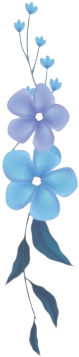
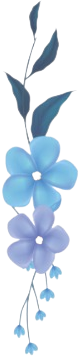
add background bunga

diff --git a/public/css/app.css b/public/css/app.css
@@ -1,1 +1,1 @@
-/*! tailwindcss v3.0.24 | MIT License | https://tailwindcss.com*/*,:after,:before{border:0 solid #e5e7eb;box-sizing:border-box}:after,:before{--tw-content:""}html{-webkit-text-size-adjust:100%;font-family:ui-sans-serif,system-ui,-apple-system,BlinkMacSystemFont,Segoe UI,Roboto,Helvetica Neue,Arial,Noto Sans,sans-serif,Apple Color Emoji,Segoe UI Emoji,Segoe UI Symbol,Noto Color Emoji;line-height:1.5;-moz-tab-size:4;-o-tab-size:4;tab-size:4}body{line-height:inherit;margin:0}hr{border-top-width:1px;color:inherit;height:0}abbr:where([title]){-webkit-text-decoration:underline dotted;text-decoration:underline dotted}h1,h2,h3,h4,h5,h6{font-size:inherit;font-weight:inherit}a{color:inherit;text-decoration:inherit}b,strong{font-weight:bolder}code,kbd,pre,samp{font-family:ui-monospace,SFMono-Regular,Menlo,Monaco,Consolas,Liberation Mono,Courier New,monospace;font-size:1em}small{font-size:80%}sub,sup{font-size:75%;line-height:0;position:relative;vertical-align:baseline}sub{bottom:-.25em}sup{top:-.5em}table{border-collapse:collapse;border-color:inherit;text-indent:0}button,input,optgroup,select,textarea{color:inherit;font-family:inherit;font-size:100%;line-height:inherit;margin:0;padding:0}button,select{text-transform:none}[type=button],[type=reset],[type=submit],button{-webkit-appearance:button;background-color:transparent;background-image:none}:-moz-focusring{outline:auto}:-moz-ui-invalid{box-shadow:none}progress{vertical-align:baseline}::-webkit-inner-spin-button,::-webkit-outer-spin-button{height:auto}[type=search]{-webkit-appearance:textfield;outline-offset:-2px}::-webkit-search-decoration{-webkit-appearance:none}::-webkit-file-upload-button{-webkit-appearance:button;font:inherit}summary{display:list-item}blockquote,dd,dl,figure,h1,h2,h3,h4,h5,h6,hr,p,pre{margin:0}fieldset{margin:0}fieldset,legend{padding:0}menu,ol,ul{list-style:none;margin:0;padding:0}textarea{resize:vertical}input::-moz-placeholder,textarea::-moz-placeholder{color:#9ca3af;opacity:1}input:-ms-input-placeholder,textarea:-ms-input-placeholder{color:#9ca3af;opacity:1}input::placeholder,textarea::placeholder{color:#9ca3af;opacity:1}[role=button],button{cursor:pointer}:disabled{cursor:default}audio,canvas,embed,iframe,img,object,svg,video{display:block;vertical-align:middle}img,video{height:auto;max-width:100%}[hidden]{display:none}*,:after,:before{--tw-translate-x:0;--tw-translate-y:0;--tw-rotate:0;--tw-skew-x:0;--tw-skew-y:0;--tw-scale-x:1;--tw-scale-y:1;--tw-pan-x: ;--tw-pan-y: ;--tw-pinch-zoom: ;--tw-scroll-snap-strictness:proximity;--tw-ordinal: ;--tw-slashed-zero: ;--tw-numeric-figure: ;--tw-numeric-spacing: ;--tw-numeric-fraction: ;--tw-ring-inset: ;--tw-ring-offset-width:0px;--tw-ring-offset-color:#fff;--tw-ring-color:rgba(59,130,246,.5);--tw-ring-offset-shadow:0 0 #0000;--tw-ring-shadow:0 0 #0000;--tw-shadow:0 0 #0000;--tw-shadow-colored:0 0 #0000;--tw-blur: ;--tw-brightness: ;--tw-contrast: ;--tw-grayscale: ;--tw-hue-rotate: ;--tw-invert: ;--tw-saturate: ;--tw-sepia: ;--tw-drop-shadow: ;--tw-backdrop-blur: ;--tw-backdrop-brightness: ;--tw-backdrop-contrast: ;--tw-backdrop-grayscale: ;--tw-backdrop-hue-rotate: ;--tw-backdrop-invert: ;--tw-backdrop-opacity: ;--tw-backdrop-saturate: ;--tw-backdrop-sepia: }.fixed{position:fixed}.absolute{position:absolute}.relative{position:relative}.inset-0{bottom:0;left:0;right:0;top:0}.top-auto{top:auto}.right-4{right:1rem}.bottom-4{bottom:1rem}.left-auto{left:auto}.top-\[\.15rem\]{top:.15rem}.bottom-24{bottom:6rem}.top-\[30\%\]{top:30%}.-top-1{top:-.25rem}.-bottom-1{bottom:-.25rem}.top-1\/2{top:50%}.left-1\/2{left:50%}.top-0{top:0}.right-0{right:0}.z-40{z-index:40}.z-50{z-index:50}.mx-auto{margin-left:auto;margin-right:auto}.my-5{margin-bottom:1.25rem;margin-top:1.25rem}.my-1{margin-bottom:.25rem;margin-top:.25rem}.my-3{margin-bottom:.75rem;margin-top:.75rem}.my-10{margin-bottom:2.5rem;margin-top:2.5rem}.mt-\[\.15rem\]{margin-top:.15rem}.mt-4{margin-top:1rem}.mt-5{margin-top:1.25rem}.mt-16{margin-top:4rem}.mt-10{margin-top:2.5rem}.mt-2{margin-top:.5rem}.mt-1{margin-top:.25rem}.mt-20{margin-top:5rem}.ml-2{margin-left:.5rem}.mt-3{margin-top:.75rem}.ml-1{margin-left:.25rem}.mr-2{margin-right:.5rem}.ml-4{margin-left:1rem}.mt-8{margin-top:2rem}.ml-12{margin-left:3rem}.-mt-px{margin-top:-1px}.block{display:block}.flex{display:flex}.inline-flex{display:inline-flex}.grid{display:grid}.hidden{display:none}.h-10{height:2.5rem}.h-\[95vh\]{height:95vh}.h-full{height:100%}.h-48{height:12rem}.h-8{height:2rem}.h-auto{height:auto}.h-80{height:20rem}.h-16{height:4rem}.h-screen{height:100vh}.h-5{height:1.25rem}.min-h-screen{min-height:100vh}.w-10{width:2.5rem}.w-full{width:100%}.w-11\/12{width:91.666667%}.w-72{width:18rem}.w-80{width:20rem}.w-64{width:16rem}.w-16{width:4rem}.w-auto{width:auto}.w-32{width:8rem}.w-5{width:1.25rem}.w-8{width:2rem}.max-w-6xl{max-width:72rem}@-webkit-keyframes bounce{0%,to{-webkit-animation-timing-function:cubic-bezier(.8,0,1,1);animation-timing-function:cubic-bezier(.8,0,1,1);transform:translateY(-25%)}50%{-webkit-animation-timing-function:cubic-bezier(0,0,.2,1);animation-timing-function:cubic-bezier(0,0,.2,1);transform:none}}@keyframes bounce{0%,to{-webkit-animation-timing-function:cubic-bezier(.8,0,1,1);animation-timing-function:cubic-bezier(.8,0,1,1);transform:translateY(-25%)}50%{-webkit-animation-timing-function:cubic-bezier(0,0,.2,1);animation-timing-function:cubic-bezier(0,0,.2,1);transform:none}}.animate-bounce{-webkit-animation:bounce 1s infinite;animation:bounce 1s infinite}.resize-none{resize:none}.grid-cols-4{grid-template-columns:repeat(4,minmax(0,1fr))}.grid-cols-3{grid-template-columns:repeat(3,minmax(0,1fr))}.grid-cols-1{grid-template-columns:repeat(1,minmax(0,1fr))}.flex-row{flex-direction:row}.flex-col{flex-direction:column}.items-center{align-items:center}.justify-end{justify-content:flex-end}.justify-center{justify-content:center}.justify-between{justify-content:space-between}.gap-4{gap:1rem}.gap-10{gap:2.5rem}.gap-x-4{-moz-column-gap:1rem;column-gap:1rem}.overflow-hidden{overflow:hidden}.overflow-y-auto{overflow-y:auto}.whitespace-nowrap{white-space:nowrap}.rounded-lg{border-radius:.5rem}.rounded-full{border-radius:9999px}.border-2{border-width:2px}.border-0{border-width:0}.border-t{border-top-width:1px}.border-solid{border-style:solid}.border-camel{--tw-border-opacity:1;border-color:rgb(180 155 109/var(--tw-border-opacity))}.border-gray-200{--tw-border-opacity:1;border-color:rgb(229 231 235/var(--tw-border-opacity))}.bg-camel{--tw-bg-opacity:1;background-color:rgb(180 155 109/var(--tw-bg-opacity))}.bg-deep-koamaru{--tw-bg-opacity:1;background-color:rgb(48 62 100/var(--tw-bg-opacity))}.bg-white{--tw-bg-opacity:1;background-color:rgb(255 255 255/var(--tw-bg-opacity))}.bg-rich-black{--tw-bg-opacity:1;background-color:rgb(1 1 27/var(--tw-bg-opacity))}.bg-water{--tw-bg-opacity:1;background-color:rgb(224 241 253/var(--tw-bg-opacity))}.bg-aero{--tw-bg-opacity:1;background-color:rgb(125 191 225/var(--tw-bg-opacity))}.bg-transparent{background-color:transparent}.bg-gray-100{--tw-bg-opacity:1;background-color:rgb(243 244 246/var(--tw-bg-opacity))}.bg-black{--tw-bg-opacity:1;background-color:rgb(0 0 0/var(--tw-bg-opacity))}.bg-opacity-50{--tw-bg-opacity:0.5}.bg-opacity-80{--tw-bg-opacity:0.8}.bg-opacity-70{--tw-bg-opacity:0.7}.bg-cover{background-size:cover}.bg-top{background-position:top}.bg-center{background-position:50%}.bg-no-repeat{background-repeat:no-repeat}.fill-current{fill:currentColor}.p-5{padding:1.25rem}.p-2{padding:.5rem}.p-6{padding:1.5rem}.py-20{padding-bottom:5rem;padding-top:5rem}.px-7{padding-left:1.75rem;padding-right:1.75rem}.py-5{padding-bottom:1.25rem;padding-top:1.25rem}.px-2{padding-left:.5rem;padding-right:.5rem}.py-2{padding-bottom:.5rem;padding-top:.5rem}.px-6{padding-left:1.5rem;padding-right:1.5rem}.py-4{padding-bottom:1rem;padding-top:1rem}.pb-32{padding-bottom:8rem}.pt-20{padding-top:5rem}.pb-10{padding-bottom:2.5rem}.pb-8{padding-bottom:2rem}.pt-8{padding-top:2rem}.text-left{text-align:left}.text-center{text-align:center}.text-sm{font-size:.875rem;line-height:1.25rem}.text-xl{font-size:1.25rem;line-height:1.75rem}.text-5xl{font-size:3rem;line-height:1}.text-2xl{font-size:1.5rem;line-height:2rem}.text-4xl{font-size:2.25rem;line-height:2.5rem}.text-lg{font-size:1.125rem;line-height:1.75rem}.text-xs{font-size:.75rem;line-height:1rem}.text-3xl{font-size:1.875rem;line-height:2.25rem}.text-base{font-size:1rem;line-height:1.5rem}.font-bold{font-weight:700}.font-semibold{font-weight:600}.leading-7{line-height:1.75rem}.text-deep-koamaru{--tw-text-opacity:1;color:rgb(48 62 100/var(--tw-text-opacity))}.text-camel{--tw-text-opacity:1;color:rgb(180 155 109/var(--tw-text-opacity))}.text-white{--tw-text-opacity:1;color:rgb(255 255 255/var(--tw-text-opacity))}.text-aero{--tw-text-opacity:1;color:rgb(125 191 225/var(--tw-text-opacity))}.text-red-600{--tw-text-opacity:1;color:rgb(220 38 38/var(--tw-text-opacity))}.text-gray-500{--tw-text-opacity:1;color:rgb(107 114 128/var(--tw-text-opacity))}.text-red-400{--tw-text-opacity:1;color:rgb(248 113 113/var(--tw-text-opacity))}.text-gray-200{--tw-text-opacity:1;color:rgb(229 231 235/var(--tw-text-opacity))}.text-gray-300{--tw-text-opacity:1;color:rgb(209 213 219/var(--tw-text-opacity))}.text-gray-400{--tw-text-opacity:1;color:rgb(156 163 175/var(--tw-text-opacity))}.text-gray-600{--tw-text-opacity:1;color:rgb(75 85 99/var(--tw-text-opacity))}.text-gray-700{--tw-text-opacity:1;color:rgb(55 65 81/var(--tw-text-opacity))}.text-gray-900{--tw-text-opacity:1;color:rgb(17 24 39/var(--tw-text-opacity))}.underline{-webkit-text-decoration-line:underline;text-decoration-line:underline}.antialiased{-webkit-font-smoothing:antialiased;-moz-osx-font-smoothing:grayscale}.opacity-30{opacity:.3}.opacity-40{opacity:.4}.shadow-lg{--tw-shadow:0 10px 15px -3px rgba(0,0,0,.1),0 4px 6px -4px rgba(0,0,0,.1);--tw-shadow-colored:0 10px 15px -3px var(--tw-shadow-color),0 4px 6px -4px var(--tw-shadow-color)}.shadow,.shadow-lg{box-shadow:var(--tw-ring-offset-shadow,0 0 #0000),var(--tw-ring-shadow,0 0 #0000),var(--tw-shadow)}.shadow{--tw-shadow:0 1px 3px 0 rgba(0,0,0,.1),0 1px 2px -1px rgba(0,0,0,.1);--tw-shadow-colored:0 1px 3px 0 var(--tw-shadow-color),0 1px 2px -1px var(--tw-shadow-color)}.outline-none{outline:2px solid transparent;outline-offset:2px}.transition{transition-duration:.15s;transition-property:color,background-color,border-color,fill,stroke,opacity,box-shadow,transform,filter,-webkit-text-decoration-color,-webkit-backdrop-filter;transition-property:color,background-color,border-color,text-decoration-color,fill,stroke,opacity,box-shadow,transform,filter,backdrop-filter;transition-property:color,background-color,border-color,text-decoration-color,fill,stroke,opacity,box-shadow,transform,filter,backdrop-filter,-webkit-text-decoration-color,-webkit-backdrop-filter;transition-timing-function:cubic-bezier(.4,0,.2,1)}.duration-300{transition-duration:.3s}body,html{scroll-behavior:smooth}body{--tw-text-opacity:1;color:rgb(34 34 34/var(--tw-text-opacity));font-family:Arima Madurai,cursive}body.modal-open{height:100vh!important;overflow-y:hidden!important}@media (min-width:1280px){body.modal-open{padding-right:1rem!important}}[x-cloak]{display:none}.modal-hide{opacity:0;pointer-events:none}.text-title{font-family:Great Vibes,cursive}.text-art{font-family:Dancing Script,cursive}.text-sign{font-family:Dawning of a New Day,cursive}.absolute-center{left:50%;position:absolute;top:50%;transform:translate(-50%,-50%)}.quote-mark-start{right:100%;top:-.75rem}.quote-mark-end,.quote-mark-start{--tw-text-opacity:1;color:rgb(209 213 219/var(--tw-text-opacity));font-size:3.75rem;line-height:1;position:absolute}.quote-mark-end{bottom:0;left:100%}.slide-wrapper{height:100%;width:100%}.focus\:outline-none:focus{outline:2px solid transparent;outline-offset:2px}.focus\:outline:focus{outline-style:solid}.focus\:ring-2:focus{--tw-ring-offset-shadow:var(--tw-ring-inset) 0 0 0 var(--tw-ring-offset-width) var(--tw-ring-offset-color);--tw-ring-shadow:var(--tw-ring-inset) 0 0 0 calc(2px + var(--tw-ring-offset-width)) var(--tw-ring-color);box-shadow:var(--tw-ring-offset-shadow),var(--tw-ring-shadow),var(--tw-shadow,0 0 #0000)}.focus\:ring-deep-koamaru:focus{--tw-ring-opacity:1;--tw-ring-color:rgb(48 62 100/var(--tw-ring-opacity))}.focus\:ring-opacity-30:focus{--tw-ring-opacity:0.3}@media (prefers-color-scheme:dark){.dark\:border-gray-700{--tw-border-opacity:1;border-color:rgb(55 65 81/var(--tw-border-opacity))}.dark\:bg-gray-900{--tw-bg-opacity:1;background-color:rgb(17 24 39/var(--tw-bg-opacity))}.dark\:bg-gray-800{--tw-bg-opacity:1;background-color:rgb(31 41 55/var(--tw-bg-opacity))}.dark\:text-gray-500{--tw-text-opacity:1;color:rgb(107 114 128/var(--tw-text-opacity))}.dark\:text-white{--tw-text-opacity:1;color:rgb(255 255 255/var(--tw-text-opacity))}.dark\:text-gray-400{--tw-text-opacity:1;color:rgb(156 163 175/var(--tw-text-opacity))}}@media (min-width:640px){.sm\:right-24{right:6rem}.sm\:bottom-14{bottom:3.5rem}.sm\:mx-auto{margin-left:auto;margin-right:auto}.sm\:mt-5{margin-top:1.25rem}.sm\:ml-0{margin-left:0}.sm\:block{display:block}.sm\:h-20{height:5rem}.sm\:w-72{width:18rem}.sm\:w-1\/2{width:50%}.sm\:max-w-sm{max-width:24rem}.sm\:grid-cols-3{grid-template-columns:repeat(3,minmax(0,1fr))}.sm\:items-center{align-items:center}.sm\:justify-start{justify-content:flex-start}.sm\:justify-between{justify-content:space-between}.sm\:rounded-lg{border-radius:.5rem}.sm\:px-6{padding-left:1.5rem;padding-right:1.5rem}.sm\:pt-0{padding-top:0}.sm\:text-left{text-align:left}.sm\:text-right{text-align:right}}@media (min-width:768px){.md\:right-16{right:4rem}.md\:h-screen{height:100vh}.md\:h-80{height:20rem}.md\:w-1\/2{width:50%}.md\:w-2\/3{width:66.666667%}.md\:w-11\/12{width:91.666667%}.md\:max-w-xl{max-width:36rem}.md\:max-w-lg{max-width:32rem}.md\:grid-cols-2{grid-template-columns:repeat(2,minmax(0,1fr))}.md\:border-t-0{border-top-width:0}.md\:border-l{border-left-width:1px}}@media (min-width:1024px){.lg\:w-96{width:24rem}.lg\:w-3\/4{width:75%}.lg\:max-w-3xl{max-width:48rem}.lg\:flex-row{flex-direction:row}.lg\:items-center{align-items:center}.lg\:justify-center{justify-content:center}.lg\:px-8{padding-left:2rem;padding-right:2rem}.lg\:text-base{font-size:1rem;line-height:1.5rem}}@media (min-width:1280px){.xl\:top-0{top:0}.xl\:mx-auto{margin-left:auto;margin-right:auto}.xl\:mt-24{margin-top:6rem}.xl\:mt-0{margin-top:0}.xl\:-mt-40{margin-top:-10rem}.xl\:mt-5{margin-top:1.25rem}.xl\:mt-10{margin-top:2.5rem}.xl\:flex{display:flex}.xl\:grid{display:grid}.xl\:h-screen{height:100vh}.xl\:h-96{height:24rem}.xl\:w-96{width:24rem}.xl\:w-28{width:7rem}.xl\:w-auto{width:auto}.xl\:max-w-5xl{max-width:64rem}.xl\:max-w-none{max-width:none}.xl\:grid-cols-2{grid-template-columns:repeat(2,minmax(0,1fr))}.xl\:flex-row{flex-direction:row}.xl\:items-center{align-items:center}.xl\:justify-between{justify-content:space-between}.xl\:gap-x-10{-moz-column-gap:2.5rem;column-gap:2.5rem}.xl\:overflow-y-auto{overflow-y:auto}.xl\:bg-center{background-position:50%}.xl\:px-5{padding-left:1.25rem;padding-right:1.25rem}.xl\:py-7{padding-bottom:1.75rem;padding-top:1.75rem}.xl\:py-10{padding-bottom:2.5rem;padding-top:2.5rem}.xl\:pb-48{padding-bottom:12rem}.xl\:opacity-20{opacity:.2}.xl\:opacity-30{opacity:.3}}
+/*! tailwindcss v3.0.24 | MIT License | https://tailwindcss.com*/*,:after,:before{border:0 solid #e5e7eb;box-sizing:border-box}:after,:before{--tw-content:""}html{-webkit-text-size-adjust:100%;font-family:ui-sans-serif,system-ui,-apple-system,BlinkMacSystemFont,Segoe UI,Roboto,Helvetica Neue,Arial,Noto Sans,sans-serif,Apple Color Emoji,Segoe UI Emoji,Segoe UI Symbol,Noto Color Emoji;line-height:1.5;-moz-tab-size:4;-o-tab-size:4;tab-size:4}body{line-height:inherit;margin:0}hr{border-top-width:1px;color:inherit;height:0}abbr:where([title]){-webkit-text-decoration:underline dotted;text-decoration:underline dotted}h1,h2,h3,h4,h5,h6{font-size:inherit;font-weight:inherit}a{color:inherit;text-decoration:inherit}b,strong{font-weight:bolder}code,kbd,pre,samp{font-family:ui-monospace,SFMono-Regular,Menlo,Monaco,Consolas,Liberation Mono,Courier New,monospace;font-size:1em}small{font-size:80%}sub,sup{font-size:75%;line-height:0;position:relative;vertical-align:baseline}sub{bottom:-.25em}sup{top:-.5em}table{border-collapse:collapse;border-color:inherit;text-indent:0}button,input,optgroup,select,textarea{color:inherit;font-family:inherit;font-size:100%;line-height:inherit;margin:0;padding:0}button,select{text-transform:none}[type=button],[type=reset],[type=submit],button{-webkit-appearance:button;background-color:transparent;background-image:none}:-moz-focusring{outline:auto}:-moz-ui-invalid{box-shadow:none}progress{vertical-align:baseline}::-webkit-inner-spin-button,::-webkit-outer-spin-button{height:auto}[type=search]{-webkit-appearance:textfield;outline-offset:-2px}::-webkit-search-decoration{-webkit-appearance:none}::-webkit-file-upload-button{-webkit-appearance:button;font:inherit}summary{display:list-item}blockquote,dd,dl,figure,h1,h2,h3,h4,h5,h6,hr,p,pre{margin:0}fieldset{margin:0}fieldset,legend{padding:0}menu,ol,ul{list-style:none;margin:0;padding:0}textarea{resize:vertical}input::-moz-placeholder,textarea::-moz-placeholder{color:#9ca3af;opacity:1}input:-ms-input-placeholder,textarea:-ms-input-placeholder{color:#9ca3af;opacity:1}input::placeholder,textarea::placeholder{color:#9ca3af;opacity:1}[role=button],button{cursor:pointer}:disabled{cursor:default}audio,canvas,embed,iframe,img,object,svg,video{display:block;vertical-align:middle}img,video{height:auto;max-width:100%}[hidden]{display:none}*,:after,:before{--tw-translate-x:0;--tw-translate-y:0;--tw-rotate:0;--tw-skew-x:0;--tw-skew-y:0;--tw-scale-x:1;--tw-scale-y:1;--tw-pan-x: ;--tw-pan-y: ;--tw-pinch-zoom: ;--tw-scroll-snap-strictness:proximity;--tw-ordinal: ;--tw-slashed-zero: ;--tw-numeric-figure: ;--tw-numeric-spacing: ;--tw-numeric-fraction: ;--tw-ring-inset: ;--tw-ring-offset-width:0px;--tw-ring-offset-color:#fff;--tw-ring-color:rgba(59,130,246,.5);--tw-ring-offset-shadow:0 0 #0000;--tw-ring-shadow:0 0 #0000;--tw-shadow:0 0 #0000;--tw-shadow-colored:0 0 #0000;--tw-blur: ;--tw-brightness: ;--tw-contrast: ;--tw-grayscale: ;--tw-hue-rotate: ;--tw-invert: ;--tw-saturate: ;--tw-sepia: ;--tw-drop-shadow: ;--tw-backdrop-blur: ;--tw-backdrop-brightness: ;--tw-backdrop-contrast: ;--tw-backdrop-grayscale: ;--tw-backdrop-hue-rotate: ;--tw-backdrop-invert: ;--tw-backdrop-opacity: ;--tw-backdrop-saturate: ;--tw-backdrop-sepia: }.fixed{position:fixed}.absolute{position:absolute}.relative{position:relative}.inset-0{bottom:0;left:0;right:0;top:0}.top-auto{top:auto}.right-4{right:1rem}.bottom-4{bottom:1rem}.left-auto{left:auto}.top-\[\.15rem\]{top:.15rem}.bottom-24{bottom:6rem}.top-\[30\%\]{top:30%}.-top-1{top:-.25rem}.-bottom-1{bottom:-.25rem}.top-1\/2{top:50%}.left-1\/2{left:50%}.-top-\[9\.80rem\]{top:-9.8rem}.right-0{right:0}.bottom-auto{bottom:auto}.right-auto{right:auto}.left-0{left:0}.top-0{top:0}.z-40{z-index:40}.z-50{z-index:50}.mx-auto{margin-left:auto;margin-right:auto}.my-5{margin-bottom:1.25rem;margin-top:1.25rem}.my-1{margin-bottom:.25rem;margin-top:.25rem}.my-3{margin-bottom:.75rem;margin-top:.75rem}.my-10{margin-bottom:2.5rem;margin-top:2.5rem}.mt-\[\.15rem\]{margin-top:.15rem}.mt-4{margin-top:1rem}.mt-5{margin-top:1.25rem}.mt-16{margin-top:4rem}.mt-10{margin-top:2.5rem}.mt-2{margin-top:.5rem}.mt-1{margin-top:.25rem}.mt-20{margin-top:5rem}.ml-2{margin-left:.5rem}.mt-3{margin-top:.75rem}.ml-1{margin-left:.25rem}.mr-2{margin-right:.5rem}.ml-4{margin-left:1rem}.mt-8{margin-top:2rem}.ml-12{margin-left:3rem}.-mt-px{margin-top:-1px}.block{display:block}.inline{display:inline}.flex{display:flex}.inline-flex{display:inline-flex}.grid{display:grid}.hidden{display:none}.h-10{height:2.5rem}.h-\[95vh\]{height:95vh}.h-full{height:100%}.h-48{height:12rem}.h-8{height:2rem}.h-auto{height:auto}.h-80{height:20rem}.h-16{height:4rem}.h-screen{height:100vh}.h-5{height:1.25rem}.min-h-screen{min-height:100vh}.w-10{width:2.5rem}.w-full{width:100%}.w-11\/12{width:91.666667%}.w-72{width:18rem}.w-80{width:20rem}.w-40{width:10rem}.w-64{width:16rem}.w-16{width:4rem}.w-auto{width:auto}.w-32{width:8rem}.w-5{width:1.25rem}.w-8{width:2rem}.max-w-6xl{max-width:72rem}.rotate-180{--tw-rotate:180deg}.-rotate-12,.rotate-180{transform:translate(var(--tw-translate-x),var(--tw-translate-y)) rotate(var(--tw-rotate)) skewX(var(--tw-skew-x)) skewY(var(--tw-skew-y)) scaleX(var(--tw-scale-x)) scaleY(var(--tw-scale-y))}.-rotate-12{--tw-rotate:-12deg}.transform{transform:translate(var(--tw-translate-x),var(--tw-translate-y)) rotate(var(--tw-rotate)) skewX(var(--tw-skew-x)) skewY(var(--tw-skew-y)) scaleX(var(--tw-scale-x)) scaleY(var(--tw-scale-y))}@-webkit-keyframes bounce{0%,to{-webkit-animation-timing-function:cubic-bezier(.8,0,1,1);animation-timing-function:cubic-bezier(.8,0,1,1);transform:translateY(-25%)}50%{-webkit-animation-timing-function:cubic-bezier(0,0,.2,1);animation-timing-function:cubic-bezier(0,0,.2,1);transform:none}}@keyframes bounce{0%,to{-webkit-animation-timing-function:cubic-bezier(.8,0,1,1);animation-timing-function:cubic-bezier(.8,0,1,1);transform:translateY(-25%)}50%{-webkit-animation-timing-function:cubic-bezier(0,0,.2,1);animation-timing-function:cubic-bezier(0,0,.2,1);transform:none}}.animate-bounce{-webkit-animation:bounce 1s infinite;animation:bounce 1s infinite}.resize-none{resize:none}.resize{resize:both}.grid-cols-4{grid-template-columns:repeat(4,minmax(0,1fr))}.grid-cols-3{grid-template-columns:repeat(3,minmax(0,1fr))}.grid-cols-1{grid-template-columns:repeat(1,minmax(0,1fr))}.flex-row{flex-direction:row}.flex-col{flex-direction:column}.items-center{align-items:center}.justify-end{justify-content:flex-end}.justify-center{justify-content:center}.justify-between{justify-content:space-between}.gap-4{gap:1rem}.gap-10{gap:2.5rem}.gap-x-4{-moz-column-gap:1rem;column-gap:1rem}.overflow-hidden{overflow:hidden}.overflow-y-auto{overflow-y:auto}.truncate{overflow:hidden;text-overflow:ellipsis}.truncate,.whitespace-nowrap{white-space:nowrap}.rounded-lg{border-radius:.5rem}.rounded-full{border-radius:9999px}.rounded{border-radius:.25rem}.border-2{border-width:2px}.border-0{border-width:0}.border-t{border-top-width:1px}.border-solid{border-style:solid}.border-camel{--tw-border-opacity:1;border-color:rgb(180 155 109/var(--tw-border-opacity))}.border-gray-200{--tw-border-opacity:1;border-color:rgb(229 231 235/var(--tw-border-opacity))}.bg-camel{--tw-bg-opacity:1;background-color:rgb(180 155 109/var(--tw-bg-opacity))}.bg-deep-koamaru{--tw-bg-opacity:1;background-color:rgb(48 62 100/var(--tw-bg-opacity))}.bg-white{--tw-bg-opacity:1;background-color:rgb(255 255 255/var(--tw-bg-opacity))}.bg-rich-black{--tw-bg-opacity:1;background-color:rgb(1 1 27/var(--tw-bg-opacity))}.bg-water{--tw-bg-opacity:1;background-color:rgb(224 241 253/var(--tw-bg-opacity))}.bg-aero{--tw-bg-opacity:1;background-color:rgb(125 191 225/var(--tw-bg-opacity))}.bg-transparent{background-color:transparent}.bg-gray-100{--tw-bg-opacity:1;background-color:rgb(243 244 246/var(--tw-bg-opacity))}.bg-black{--tw-bg-opacity:1;background-color:rgb(0 0 0/var(--tw-bg-opacity))}.bg-opacity-50{--tw-bg-opacity:0.5}.bg-opacity-80{--tw-bg-opacity:0.8}.bg-opacity-70{--tw-bg-opacity:0.7}.bg-cover{background-size:cover}.bg-top{background-position:top}.bg-center{background-position:50%}.bg-no-repeat{background-repeat:no-repeat}.fill-current{fill:currentColor}.p-5{padding:1.25rem}.p-2{padding:.5rem}.p-6{padding:1.5rem}.py-20{padding-bottom:5rem;padding-top:5rem}.px-7{padding-left:1.75rem;padding-right:1.75rem}.py-5{padding-bottom:1.25rem;padding-top:1.25rem}.px-2{padding-left:.5rem;padding-right:.5rem}.py-2{padding-bottom:.5rem;padding-top:.5rem}.px-6{padding-left:1.5rem;padding-right:1.5rem}.py-4{padding-bottom:1rem;padding-top:1rem}.px-12{padding-left:3rem;padding-right:3rem}.py-10{padding-bottom:2.5rem;padding-top:2.5rem}.pb-32{padding-bottom:8rem}.pt-20{padding-top:5rem}.pb-10{padding-bottom:2.5rem}.pb-8{padding-bottom:2rem}.pt-8{padding-top:2rem}.text-left{text-align:left}.text-center{text-align:center}.text-sm{font-size:.875rem;line-height:1.25rem}.text-xl{font-size:1.25rem;line-height:1.75rem}.text-5xl{font-size:3rem;line-height:1}.text-2xl{font-size:1.5rem;line-height:2rem}.text-4xl{font-size:2.25rem;line-height:2.5rem}.text-lg{font-size:1.125rem;line-height:1.75rem}.text-xs{font-size:.75rem;line-height:1rem}.text-3xl{font-size:1.875rem;line-height:2.25rem}.text-base{font-size:1rem;line-height:1.5rem}.font-bold{font-weight:700}.font-semibold{font-weight:600}.capitalize{text-transform:capitalize}.leading-7{line-height:1.75rem}.text-deep-koamaru{--tw-text-opacity:1;color:rgb(48 62 100/var(--tw-text-opacity))}.text-camel{--tw-text-opacity:1;color:rgb(180 155 109/var(--tw-text-opacity))}.text-white{--tw-text-opacity:1;color:rgb(255 255 255/var(--tw-text-opacity))}.text-aero{--tw-text-opacity:1;color:rgb(125 191 225/var(--tw-text-opacity))}.text-red-600{--tw-text-opacity:1;color:rgb(220 38 38/var(--tw-text-opacity))}.text-gray-500{--tw-text-opacity:1;color:rgb(107 114 128/var(--tw-text-opacity))}.text-red-400{--tw-text-opacity:1;color:rgb(248 113 113/var(--tw-text-opacity))}.text-gray-200{--tw-text-opacity:1;color:rgb(229 231 235/var(--tw-text-opacity))}.text-gray-300{--tw-text-opacity:1;color:rgb(209 213 219/var(--tw-text-opacity))}.text-gray-400{--tw-text-opacity:1;color:rgb(156 163 175/var(--tw-text-opacity))}.text-gray-600{--tw-text-opacity:1;color:rgb(75 85 99/var(--tw-text-opacity))}.text-gray-700{--tw-text-opacity:1;color:rgb(55 65 81/var(--tw-text-opacity))}.text-gray-900{--tw-text-opacity:1;color:rgb(17 24 39/var(--tw-text-opacity))}.underline{-webkit-text-decoration-line:underline;text-decoration-line:underline}.antialiased{-webkit-font-smoothing:antialiased;-moz-osx-font-smoothing:grayscale}.opacity-30{opacity:.3}.opacity-40{opacity:.4}.opacity-50{opacity:.5}.shadow-lg{--tw-shadow:0 10px 15px -3px rgba(0,0,0,.1),0 4px 6px -4px rgba(0,0,0,.1);--tw-shadow-colored:0 10px 15px -3px var(--tw-shadow-color),0 4px 6px -4px var(--tw-shadow-color)}.shadow,.shadow-lg{box-shadow:var(--tw-ring-offset-shadow,0 0 #0000),var(--tw-ring-shadow,0 0 #0000),var(--tw-shadow)}.shadow{--tw-shadow:0 1px 3px 0 rgba(0,0,0,.1),0 1px 2px -1px rgba(0,0,0,.1);--tw-shadow-colored:0 1px 3px 0 var(--tw-shadow-color),0 1px 2px -1px var(--tw-shadow-color)}.outline-none{outline:2px solid transparent;outline-offset:2px}.invert{--tw-invert:invert(100%)}.filter,.invert{filter:var(--tw-blur) var(--tw-brightness) var(--tw-contrast) var(--tw-grayscale) var(--tw-hue-rotate) var(--tw-invert) var(--tw-saturate) var(--tw-sepia) var(--tw-drop-shadow)}.transition{transition-duration:.15s;transition-property:color,background-color,border-color,fill,stroke,opacity,box-shadow,transform,filter,-webkit-text-decoration-color,-webkit-backdrop-filter;transition-property:color,background-color,border-color,text-decoration-color,fill,stroke,opacity,box-shadow,transform,filter,backdrop-filter;transition-property:color,background-color,border-color,text-decoration-color,fill,stroke,opacity,box-shadow,transform,filter,backdrop-filter,-webkit-text-decoration-color,-webkit-backdrop-filter;transition-timing-function:cubic-bezier(.4,0,.2,1)}.duration-300{transition-duration:.3s}body,html{scroll-behavior:smooth}body{--tw-text-opacity:1;color:rgb(34 34 34/var(--tw-text-opacity));font-family:Arima Madurai,cursive}body.modal-open{height:100vh!important;overflow-y:hidden!important}@media (min-width:1280px){body.modal-open{padding-right:1rem!important}}[x-cloak]{display:none}.modal-hide{opacity:0;pointer-events:none}.text-title{font-family:Great Vibes,cursive}.text-art{font-family:Dancing Script,cursive}.text-sign{font-family:Dawning of a New Day,cursive}.absolute-center{left:50%;position:absolute;top:50%;transform:translate(-50%,-50%)}.quote-mark-start{right:100%;top:-.75rem}.quote-mark-end,.quote-mark-start{--tw-text-opacity:1;color:rgb(209 213 219/var(--tw-text-opacity));font-size:3.75rem;line-height:1;position:absolute}.quote-mark-end{bottom:0;left:100%}.slide-wrapper{height:100%;width:100%}.focus\:outline-none:focus{outline:2px solid transparent;outline-offset:2px}.focus\:outline:focus{outline-style:solid}.focus\:ring-2:focus{--tw-ring-offset-shadow:var(--tw-ring-inset) 0 0 0 var(--tw-ring-offset-width) var(--tw-ring-offset-color);--tw-ring-shadow:var(--tw-ring-inset) 0 0 0 calc(2px + var(--tw-ring-offset-width)) var(--tw-ring-color);box-shadow:var(--tw-ring-offset-shadow),var(--tw-ring-shadow),var(--tw-shadow,0 0 #0000)}.focus\:ring-deep-koamaru:focus{--tw-ring-opacity:1;--tw-ring-color:rgb(48 62 100/var(--tw-ring-opacity))}.focus\:ring-opacity-30:focus{--tw-ring-opacity:0.3}@media (prefers-color-scheme:dark){.dark\:border-gray-700{--tw-border-opacity:1;border-color:rgb(55 65 81/var(--tw-border-opacity))}.dark\:bg-gray-900{--tw-bg-opacity:1;background-color:rgb(17 24 39/var(--tw-bg-opacity))}.dark\:bg-gray-800{--tw-bg-opacity:1;background-color:rgb(31 41 55/var(--tw-bg-opacity))}.dark\:text-gray-500{--tw-text-opacity:1;color:rgb(107 114 128/var(--tw-text-opacity))}.dark\:text-white{--tw-text-opacity:1;color:rgb(255 255 255/var(--tw-text-opacity))}.dark\:text-gray-400{--tw-text-opacity:1;color:rgb(156 163 175/var(--tw-text-opacity))}}@media (min-width:640px){.sm\:right-24{right:6rem}.sm\:bottom-14{bottom:3.5rem}.sm\:mx-auto{margin-left:auto;margin-right:auto}.sm\:mt-5{margin-top:1.25rem}.sm\:ml-0{margin-left:0}.sm\:block{display:block}.sm\:h-20{height:5rem}.sm\:w-72{width:18rem}.sm\:w-1\/2{width:50%}.sm\:max-w-sm{max-width:24rem}.sm\:grid-cols-3{grid-template-columns:repeat(3,minmax(0,1fr))}.sm\:items-center{align-items:center}.sm\:justify-start{justify-content:flex-start}.sm\:justify-between{justify-content:space-between}.sm\:rounded-lg{border-radius:.5rem}.sm\:px-6{padding-left:1.5rem;padding-right:1.5rem}.sm\:pt-0{padding-top:0}.sm\:text-left{text-align:left}.sm\:text-right{text-align:right}}@media (min-width:768px){.md\:right-16{right:4rem}.md\:h-screen{height:100vh}.md\:h-80{height:20rem}.md\:w-1\/2{width:50%}.md\:w-2\/3{width:66.666667%}.md\:w-11\/12{width:91.666667%}.md\:max-w-xl{max-width:36rem}.md\:max-w-lg{max-width:32rem}.md\:grid-cols-2{grid-template-columns:repeat(2,minmax(0,1fr))}.md\:border-t-0{border-top-width:0}.md\:border-l{border-left-width:1px}}@media (min-width:1024px){.lg\:-top-\[12\.75rem\]{top:-12.75rem}.lg\:w-52{width:13rem}.lg\:w-60{width:15rem}.lg\:w-96{width:24rem}.lg\:w-3\/4{width:75%}.lg\:max-w-3xl{max-width:48rem}.lg\:flex-row{flex-direction:row}.lg\:items-center{align-items:center}.lg\:justify-center{justify-content:center}.lg\:px-8{padding-left:2rem;padding-right:2rem}.lg\:text-base{font-size:1rem;line-height:1.5rem}}@media (min-width:1280px){.xl\:top-0{top:0}.xl\:mx-auto{margin-left:auto;margin-right:auto}.xl\:mt-24{margin-top:6rem}.xl\:mt-0{margin-top:0}.xl\:-mt-40{margin-top:-10rem}.xl\:mt-5{margin-top:1.25rem}.xl\:mt-10{margin-top:2.5rem}.xl\:flex{display:flex}.xl\:grid{display:grid}.xl\:h-screen{height:100vh}.xl\:h-96{height:24rem}.xl\:w-96{width:24rem}.xl\:w-28{width:7rem}.xl\:w-auto{width:auto}.xl\:max-w-5xl{max-width:64rem}.xl\:max-w-none{max-width:none}.xl\:grid-cols-2{grid-template-columns:repeat(2,minmax(0,1fr))}.xl\:flex-row{flex-direction:row}.xl\:items-center{align-items:center}.xl\:justify-between{justify-content:space-between}.xl\:gap-x-10{-moz-column-gap:2.5rem;column-gap:2.5rem}.xl\:overflow-y-auto{overflow-y:auto}.xl\:bg-center{background-position:50%}.xl\:px-5{padding-left:1.25rem;padding-right:1.25rem}.xl\:py-7{padding-bottom:1.75rem;padding-top:1.75rem}.xl\:py-10{padding-bottom:2.5rem;padding-top:2.5rem}.xl\:pb-48{padding-bottom:12rem}.xl\:opacity-20{opacity:.2}.xl\:opacity-30{opacity:.3}}

diff --git a/tailwind.config.js b/tailwind.config.js
@@ -3,6 +3,7 @@ module.exports = {
     "./resources/**/*.blade.php",
     "./resources/**/*.js",
     "./resources/**/*.vue",
+    "./public/js/**/*.js",
   ],
   theme: {
     extend: {

diff --git a/resources/views/index.blade.php b/resources/views/index.blade.php
@@ -32,7 +32,8 @@
     </script>
 
 </head>
-<body class="text-sm lg:text-base pb-32 modal-open">
+{{-- <body class="text-sm lg:text-base pb-32 modal-open"> --}}
+<body class="text-sm lg:text-base pb-32">
 
     <nav class="fixed top-auto right-4 bottom-4 left-auto z-40 sm:right-24 md:right-16">
         <div class="flex flex-row items-center justify-end gap-x-4">
@@ -167,6 +168,9 @@
 
 
     <section class="relative w-full py-20 bg-water">
+        <div class="absolute w-40 -top-[9.80rem] right-0 left-auto bottom-auto opacity-50 lg:w-52 lg:-top-[12.75rem]">
+            <img src="./img/twin-flower.png" alt="Twin Flower" class="rotate-180">
+        </div>
         <div class="w-11/12 mx-auto relative">
             <div class="flex flex-col items-center justify-center text-center">
                 <h2 class="text-title text-4xl text-deep-koamaru">
@@ -271,6 +275,9 @@
 
 
     <section class="relative w-full py-20 bg-white">
+        <div class="absolute w-40 -top-[9.80rem] right-auto left-0 bottom-auto opacity-50 lg:w-60">
+            <img src="./img/center-flower.png" alt="Center Flower" class="-rotate-12">
+        </div>
         <div class="w-11/12 mx-auto relative">
             <div class="flex flex-col items-center justify-center text-center">
                 <h2 class="text-title text-4xl text-deep-koamaru">
@@ -368,6 +375,9 @@
 
 
     <section class="relative w-full py-20 bg-water">
+        <div class="absolute w-40 -top-[9.80rem] right-0 left-auto bottom-auto opacity-50 lg:w-52 lg:-top-[12.75rem]">
+            <img src="./img/twin-flower.png" alt="Twin Flower" class="rotate-180">
+        </div>
         <div class="w-11/12 mx-auto relative">
             <div class="flex flex-col items-center justify-center text-center">
                 <h2 class="text-title text-4xl text-deep-koamaru">
@@ -420,6 +430,9 @@
 
 
     <section class="relative w-full py-20 bg-white">
+        <div class="absolute w-40 -top-[9.80rem] right-auto left-0 bottom-auto opacity-50 lg:w-60">
+            <img src="./img/center-flower.png" alt="Center Flower" class="-rotate-12">
+        </div>
         <div class="w-11/12 mx-auto relative">
             <div class="flex flex-col items-center justify-center text-center">
                 <h2 class="text-title text-4xl text-deep-koamaru">
@@ -458,7 +471,10 @@
     </section>
 
 
-    <section class="w-full py-20 bg-water">
+    <section class="relative w-full py-20 bg-water">
+        <div class="absolute w-40 -top-[9.80rem] right-0 left-auto bottom-auto opacity-50 lg:w-52 lg:-top-[12.75rem]">
+            <img src="./img/twin-flower.png" alt="Twin Flower" class="rotate-180">
+        </div>
         <div class="w-72 mx-auto md:w-2/3 md:max-w-xl">
             <div class="text-center">
                 <p class="text-art text-lg">
@@ -489,7 +505,7 @@
     <!-- Music -->
     <iframe id="player" width="560" height="315" src="https://www.youtube.com/embed/mM60wmv26yc?loop=1&enablejsapi=1" title="YouTube video player" frameborder="0" allow="accelerometer; autoplay; clipboard-write; encrypted-media; gyroscope; picture-in-picture" allowfullscreen style="display: none;"></iframe>
 
-    <div class="w-full h-screen fixed overflow-y-auto bg-white inset-0 z-50 transition duration-300" id="__coverInvitation">
+    {{-- <div class="w-full h-screen fixed overflow-y-auto bg-white inset-0 z-50 transition duration-300" id="__coverInvitation">
         <div class="py-20 xl:py-10">
             <div class="w-80 mx-auto text-center">
                 <h1 class="text-title text-4xl">
@@ -531,7 +547,7 @@
                 </button>
             </div>
         </div>
-    </div>
+    </div> --}}
 
 
     <div class="w-full fixed bg-black bg-opacity-70 inset-0 z-50 transition duration-300 modal-hide" id="__modalDompetDigital">
